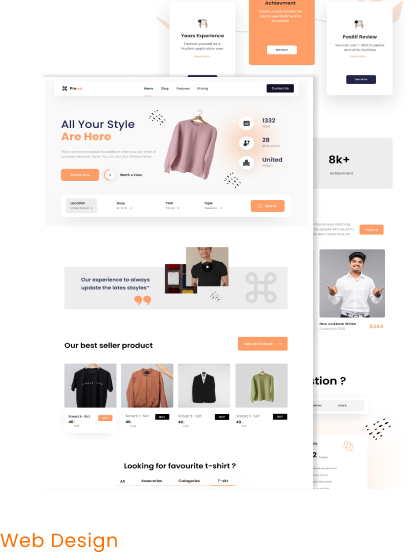
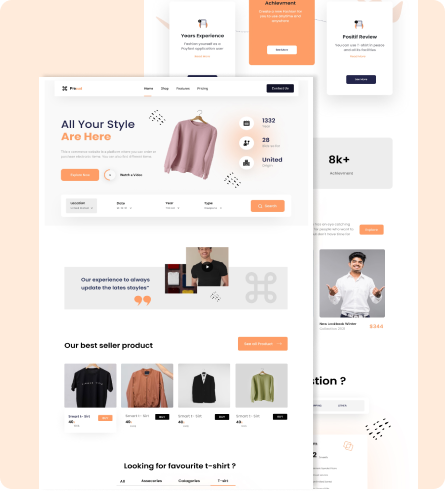
Testimonials section fixed

diff --git a/index.html b/index.html
@@ -99,46 +99,30 @@
 
             <ul class="services__list">
                 <li class="services__item">
-                    <div class="services__image-wrapper"><img src="" alt="ui/ux" class="services__image"></div>
+                    <div class="services__image-wrapper"><img src="./images/uiux.png" alt="ui/ux"
+                            class="services__image"></div>
 
                     <p class="services__name">UI/UX</p>
 
-                    <p class="services__description">Lorem ipsum dolor sit amet consectetur adipisicing elit. Cumque
-                        ipsum, harum laudantium
-                        sint
-                        quas magni quia at quisquam et deserunt rem totam nisi aliquam. Culpa ipsa sed iure
-                        corrupti
-                        voluptatibus.</p>
+                    <p class="services__description">Lorem ipsum dolor sit amet consectetur adipisicing elit.</p>
                 </li>
                 <li class="services__item">
-                    <div class="services__image-wrapper"><img src="" alt="Web Design" class="services__image"></div>
+                    <div class="services__image-wrapper"><img src="./images/web_design.png" alt="Web Design"
+                            class="services__image"></div>
                     <p class="services__name">Web Design</p>
-                    <p class="services__description">Lorem ipsum dolor sit amet consectetur adipisicing elit. Cumque
-                        ipsum, harum laudantium
-                        sint
-                        quas magni quia at quisquam et deserunt rem totam nisi aliquam. Culpa ipsa sed iure
-                        corrupti
-                        voluptatibus.</p>
+                    <p class="services__description">Lorem ipsum dolor sit amet consectetur adipisicing elit.</p>
                 </li>
-                <li>
-                    <div class="services__image-wrapper"><img src="" alt="App Design" class="services__image"></div>
+                <li class="services__item">
+                    <div class="services__image-wrapper"><img src="./images/app_design.png" alt="App Design"
+                            class="services__image"></div>
                     <p class="services__name">App Design</p>
-                    <p class="services__description">Lorem ipsum dolor sit amet consectetur adipisicing elit. Cumque
-                        ipsum, harum laudantium
-                        sint
-                        quas magni quia at quisquam et deserunt rem totam nisi aliquam. Culpa ipsa sed iure
-                        corrupti
-                        voluptatibus.</p>
+                    <p class="services__description">Lorem ipsum dolor sit amet consectetur adipisicing elit.</p>
                 </li>
-                <li>
-                    <div class="services__image-wrapper"><img src="" alt="Graphic Design" class="services__image"></div>
+                <li class="services__item">
+                    <div class="services__image-wrapper"><img src="./images/graphic_design.png" alt="Graphic Design"
+                            class="services__image"></div>
                     <p class="services__name">Graphic Design</p>
-                    <p class="services__description">Lorem ipsum dolor sit amet consectetur adipisicing elit. Cumque
-                        ipsum, harum laudantium
-                        sint
-                        quas magni quia at quisquam et deserunt rem totam nisi aliquam. Culpa ipsa sed iure
-                        corrupti
-                        voluptatibus.</p>
+                    <p class="services__description">Lorem ipsum dolor sit amet consectetur adipisicing elit.</p>
                 </li>
             </ul>
         </section>

diff --git a/css/style.css b/css/style.css
@@ -123,11 +123,6 @@ a:focus {
   border-radius: 3px;
 }
 
-.projects__filter__item-active {
-  background: var(--clr-orange-500);
-  color: #fff !important;
-}
-
 .contact__button {
   border: none;
 }
@@ -266,16 +261,34 @@ a:focus {
 .projects {
   display: flex;
   flex-direction: column;
-  gap: 2em;
+  gap: 3.5em;
   padding-block: 2em;
   text-align: center;
 }
 
 .services__list,
 .projects__gallery {
+  width: 100%;
   display: grid;
   grid-template-columns: repeat(auto-fit, minmax(200px, 1fr));
   gap: 1em;
+}
+
+.services__item {
+  background-color: #f8f8f8;
+  padding: 2em 1em;
+  border-radius: 3%;
+  display: grid;
+  gap: 1em;
+
+  & .services__name {
+    font-weight: 600;
+    font-size: 1.15rem;
+  }
+}
+
+.projects__title {
+  margin-bottom: 0.5em;
 }
 
 .projects__filter {
@@ -284,11 +297,23 @@ a:focus {
   align-items: center;
   justify-content: center;
   gap: 1em;
+
+  & .projects__filter__item {
+    background-color: #f8f8f8;
+    padding: 0.5em 0.8em;
+    border-radius: 5px;
+    border: 1px solid #bab5b5;
+  }
+
+  & .projects__filter__item-active {
+    background: var(--clr-orange-500);
+    color: #fff !important;
+  }
 }
 
 .testimonials {
   display: grid;
-  gap: 2em;
+  gap: 2.5em;
   padding-block: 2em;
 }
 
@@ -306,6 +331,70 @@ a:focus {
   display: flex;
   justify-content: space-between;
   align-items: center;
+}
+
+.testimonials__content {
+  display: grid;
+  gap: 1.5em;
+  justify-items: center;
+}
+
+.testimonials__list {
+  width: 75%;
+  display: flex;
+  gap: 3em;
+}
+
+.testimonials__item {
+  display: flex;
+  align-items: center;
+  gap: 1em;
+  padding: 2em;
+  background-color: #f8f8f8;
+  border-radius: 5px;
+
+  & .testimonials__photo {
+    width: 20%;
+    flex-grow: 1;
+  }
+
+  & .testimonials__details {
+    width: 60%;
+    flex-grow: 1;
+    display: grid;
+    gap: 1.5em;
+  }
+}
+
+.testimonials__text::before,
+.testimonials__text::after {
+  display: block;
+  margin: 0 auto;
+  height: 10px;
+}
+
+.testimonials__text::before,
+.testimonials__text::after {
+  content: ' " ';
+  color: var(--clr-orange-500);
+  font-size: 1.15rem;
+  font-weight: 700;
+}
+
+/* .testimonials__text::before {
+  transform: rotate(5deg);
+} */
+
+.testimonials__text::after {
+  transform: translateX(45px);
+}
+
+.testimonials__author {
+  font-weight: 600;
+}
+
+.testimonials__author span {
+  font-weight: normal;
 }
 
 .contact {
